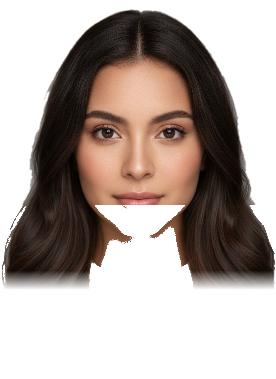
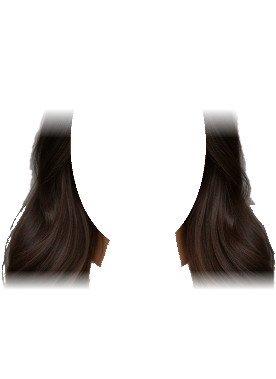
fix(rig-foto): quita la segunda cabeza detras (la capa de pelo ya no lleva la cara) y reduce el vaiven del pelo

Changed region(s): [[0.1449, 0.0, 0.8696, 0.6385]]

diff --git a/lienzo/titere-rig.js b/lienzo/titere-rig.js
@@ -32,7 +32,7 @@ const TRAJES_RIG = {
 const RIG_FOTO = path.join(__dirname, '..', 'assets', 'foto-rig');
 try { const m = JSON.parse(fs.readFileSync(path.join(RIG_FOTO, 'rig.json'), 'utf8')), pv = m.cabeza.pivoteY;
   TRAJES_RIG['bastonera-foto'] = { dir: RIG_FOTO, piezas: ['cabeza', 'pelo', 'torso', 'hombros', 'brazo-abierto', 'piernas', 'mano-relajada', 'mano-abierta', 'mano-puno', 'mano-senalar', ...m.bocas.lista.map(v => 'boca-' + v)], torso: 'torso', falda: null, brazos: ['brazo-abierto', 'brazo-abierto'], piernas: true, piernasJuntas: true, cabezaAntes: true,
-    cabeza: { x: 0, y: 26, px: 0.5, py: pv }, pelo: { x: 0, y: 26, px: 0.5, py: pv }, torsoPiv: { px: 0.5, py: 0 }, hombro: { x: m.CX - m.EJE_BRAZO, y: m.Y_HOMBRO + m.PIV_Y }, cadera: { x: 0, y: m.Y_CADERA - 2 }, pies: m.cuerpo.H, alto: m.cuerpo.H + m.cabeza.neckY + 4, long: m.largo, brazoPivY: m.PIV_Y, codoFrac: m.codoFrac, codoDuro: true, hombros: true, manoFotos: m.manos, muneca: m.muneca, bocasFoto: m.bocas, borde: { color: '#ffffff', grosor: 0.0055 }, caraFoto: m.cabeza.cara };
+    cabeza: { x: 0, y: 26, px: 0.5, py: pv }, pelo: { x: 0, y: 26, px: 0.5, py: pv }, torsoPiv: { px: 0.5, py: 0 }, hombro: { x: m.CX - m.EJE_BRAZO, y: m.Y_HOMBRO + m.PIV_Y }, cadera: { x: 0, y: m.Y_CADERA - 2 }, pies: m.cuerpo.H, alto: m.cuerpo.H + m.cabeza.neckY + 4, long: m.largo, brazoPivY: m.PIV_Y, codoFrac: m.codoFrac, codoDuro: true, hombros: true, manoFotos: m.manos, muneca: m.muneca, bocasFoto: m.bocas, peloK: 0.2, borde: { color: '#ffffff', grosor: 0.0055 }, caraFoto: m.cabeza.cara };
   } catch { /* sin piezas de foto: el traje no existe */ }
 // ── Visemas (formas de la boca al hablar). Si la voz trae `visemas` (un nombre por cuadro; 'N' = boca en reposo) se usa tal cual; si no, se elige por la abertura. ──
 const VISEMA_POR_ABERTURA = [[0.08, null], [0.22, 'Uh'], [0.40, 'D'], [0.58, 'Oh'], [0.76, 'Ee'], [2, 'Aa']];
@@ -150,7 +150,7 @@ function titereRig({ traje = 'bastonera', cx = 0.5, base = 0.9, alto = 0.5, esca
       sy *= 1 + 0.014 * Math.sin(tAbs * 2.1); const sx = 1 + (1 - sy) * 0.6, giro = Math.sin(tAbs * 1.3) * 0.02;
       const subir = estado.subir.paso(obj.subir && peso ? obj.subir * peso : 0, dt);
       const cabObj = (obj.cabeza || 0) * peso * GRAD + (emo.e === 'enojo' ? 0.05 : emo.e === 'triste' ? -0.06 : 0) + Math.sin(tAbs * 1.1) * 0.025 + (pose.salta ? Math.sin(tAbs * 5.2) * 0.07 : 0);
-      const cabAng = estado.cab.paso(cabObj, dt), pelo = estado.pelo.paso(-cabAng * 1.3 + giro * 2 + (dy > 0 ? -0.05 : 0), dt);
+      const cabAng = estado.cab.paso(cabObj, dt), pelo = estado.pelo.paso((-cabAng * 1.3 + giro * 2 + (dy > 0 ? -0.05 : 0)) * (R.peloK ?? 1), dt);
       const ap = voz ? (voz.abertura[Math.floor(tAbs * (voz.fps || 30))] ?? 0) : 0;
       B.sombraDeContacto(ctx, X, Y + H * 0.005, 240 * e * 0.62 * (1 - dy * 0.5), H * 0.03, 0.30 * acotar(t / 0.2) * (1 - Math.min(0.6, dy)));
       ctx.save(); ctx.globalAlpha *= acotar((tAbs - t0) / 0.05 + 0.0001); ctx.translate(X, Y - dy * H); ctx.rotate(giro); ctx.scale(sx * e, sy * e); ctx.translate(0, -R.pies);

diff --git a/scripts/kit-foto-rig.js b/scripts/kit-foto-rig.js
@@ -86,7 +86,8 @@ async function cabeza() {
   const lum = (r, g, b) => 0.3 * r + 0.59 * g + 0.11 * b;
   const cab = hacer((x, y) => y <= 560 ? 1 : y <= 700 ? (x > 235 && x < 640 ? 1 : (700 - y) / 140) : y <= NECK_Y && x > 300 && x < 585 ? 1 : 0); // el pelo de los lados se desvanece: sigue en la capa de pelo de atrás
   // pelo (detrás de la espalda): toda la foto, pero por debajo de la barbilla solo lo oscuro (sin suéter ni piel)
-  const CORTE = NECK_Y + (50 - 26) / S, pel = hacer((x, y, r, g, b) => (y <= 640 ? 1 : lum(r, g, b) < 105 ? 1 : 0) * (y <= CORTE - 60 ? 1 : y >= CORTE ? 0 : (CORTE - y) / 60)); // el pelo termina en la línea de los hombros: no asoma por el hueco del brazo
+  const CORTE = NECK_Y + (50 - 26) / S, enCara = (x, y) => ((x - 432) / 212) ** 2 + ((y - 450) / 330) ** 2 < 1, // la cara NO va en la capa de pelo: si no, al moverse el pelo se vería una segunda cabeza detrás de la primera
+    pel = hacer((x, y, r, g, b) => (y < 340 || enCara(x, y) ? 0 : y <= 640 ? 1 : lum(r, g, b) < 105 ? 1 : 0) * Math.min(1, (y - 340) / 90) * (y <= CORTE - 60 ? 1 : y >= CORTE ? 0 : (CORTE - y) / 60)); // el pelo termina en la línea de los hombros: no asoma por el hueco del brazo
   guardar(cab, 'cabeza'); guardar(pel, 'pelo');
   return { cw, ch, pivoteY: NECK_Y * S / ch, chinY: CHIN_Y * S, neckY: NECK_Y * S, cara: { cx: 432 * S, cy: 408 * S, w: 610 * S, h: 663 * S } }; // caja de la cara medida sobre esta foto
 }
